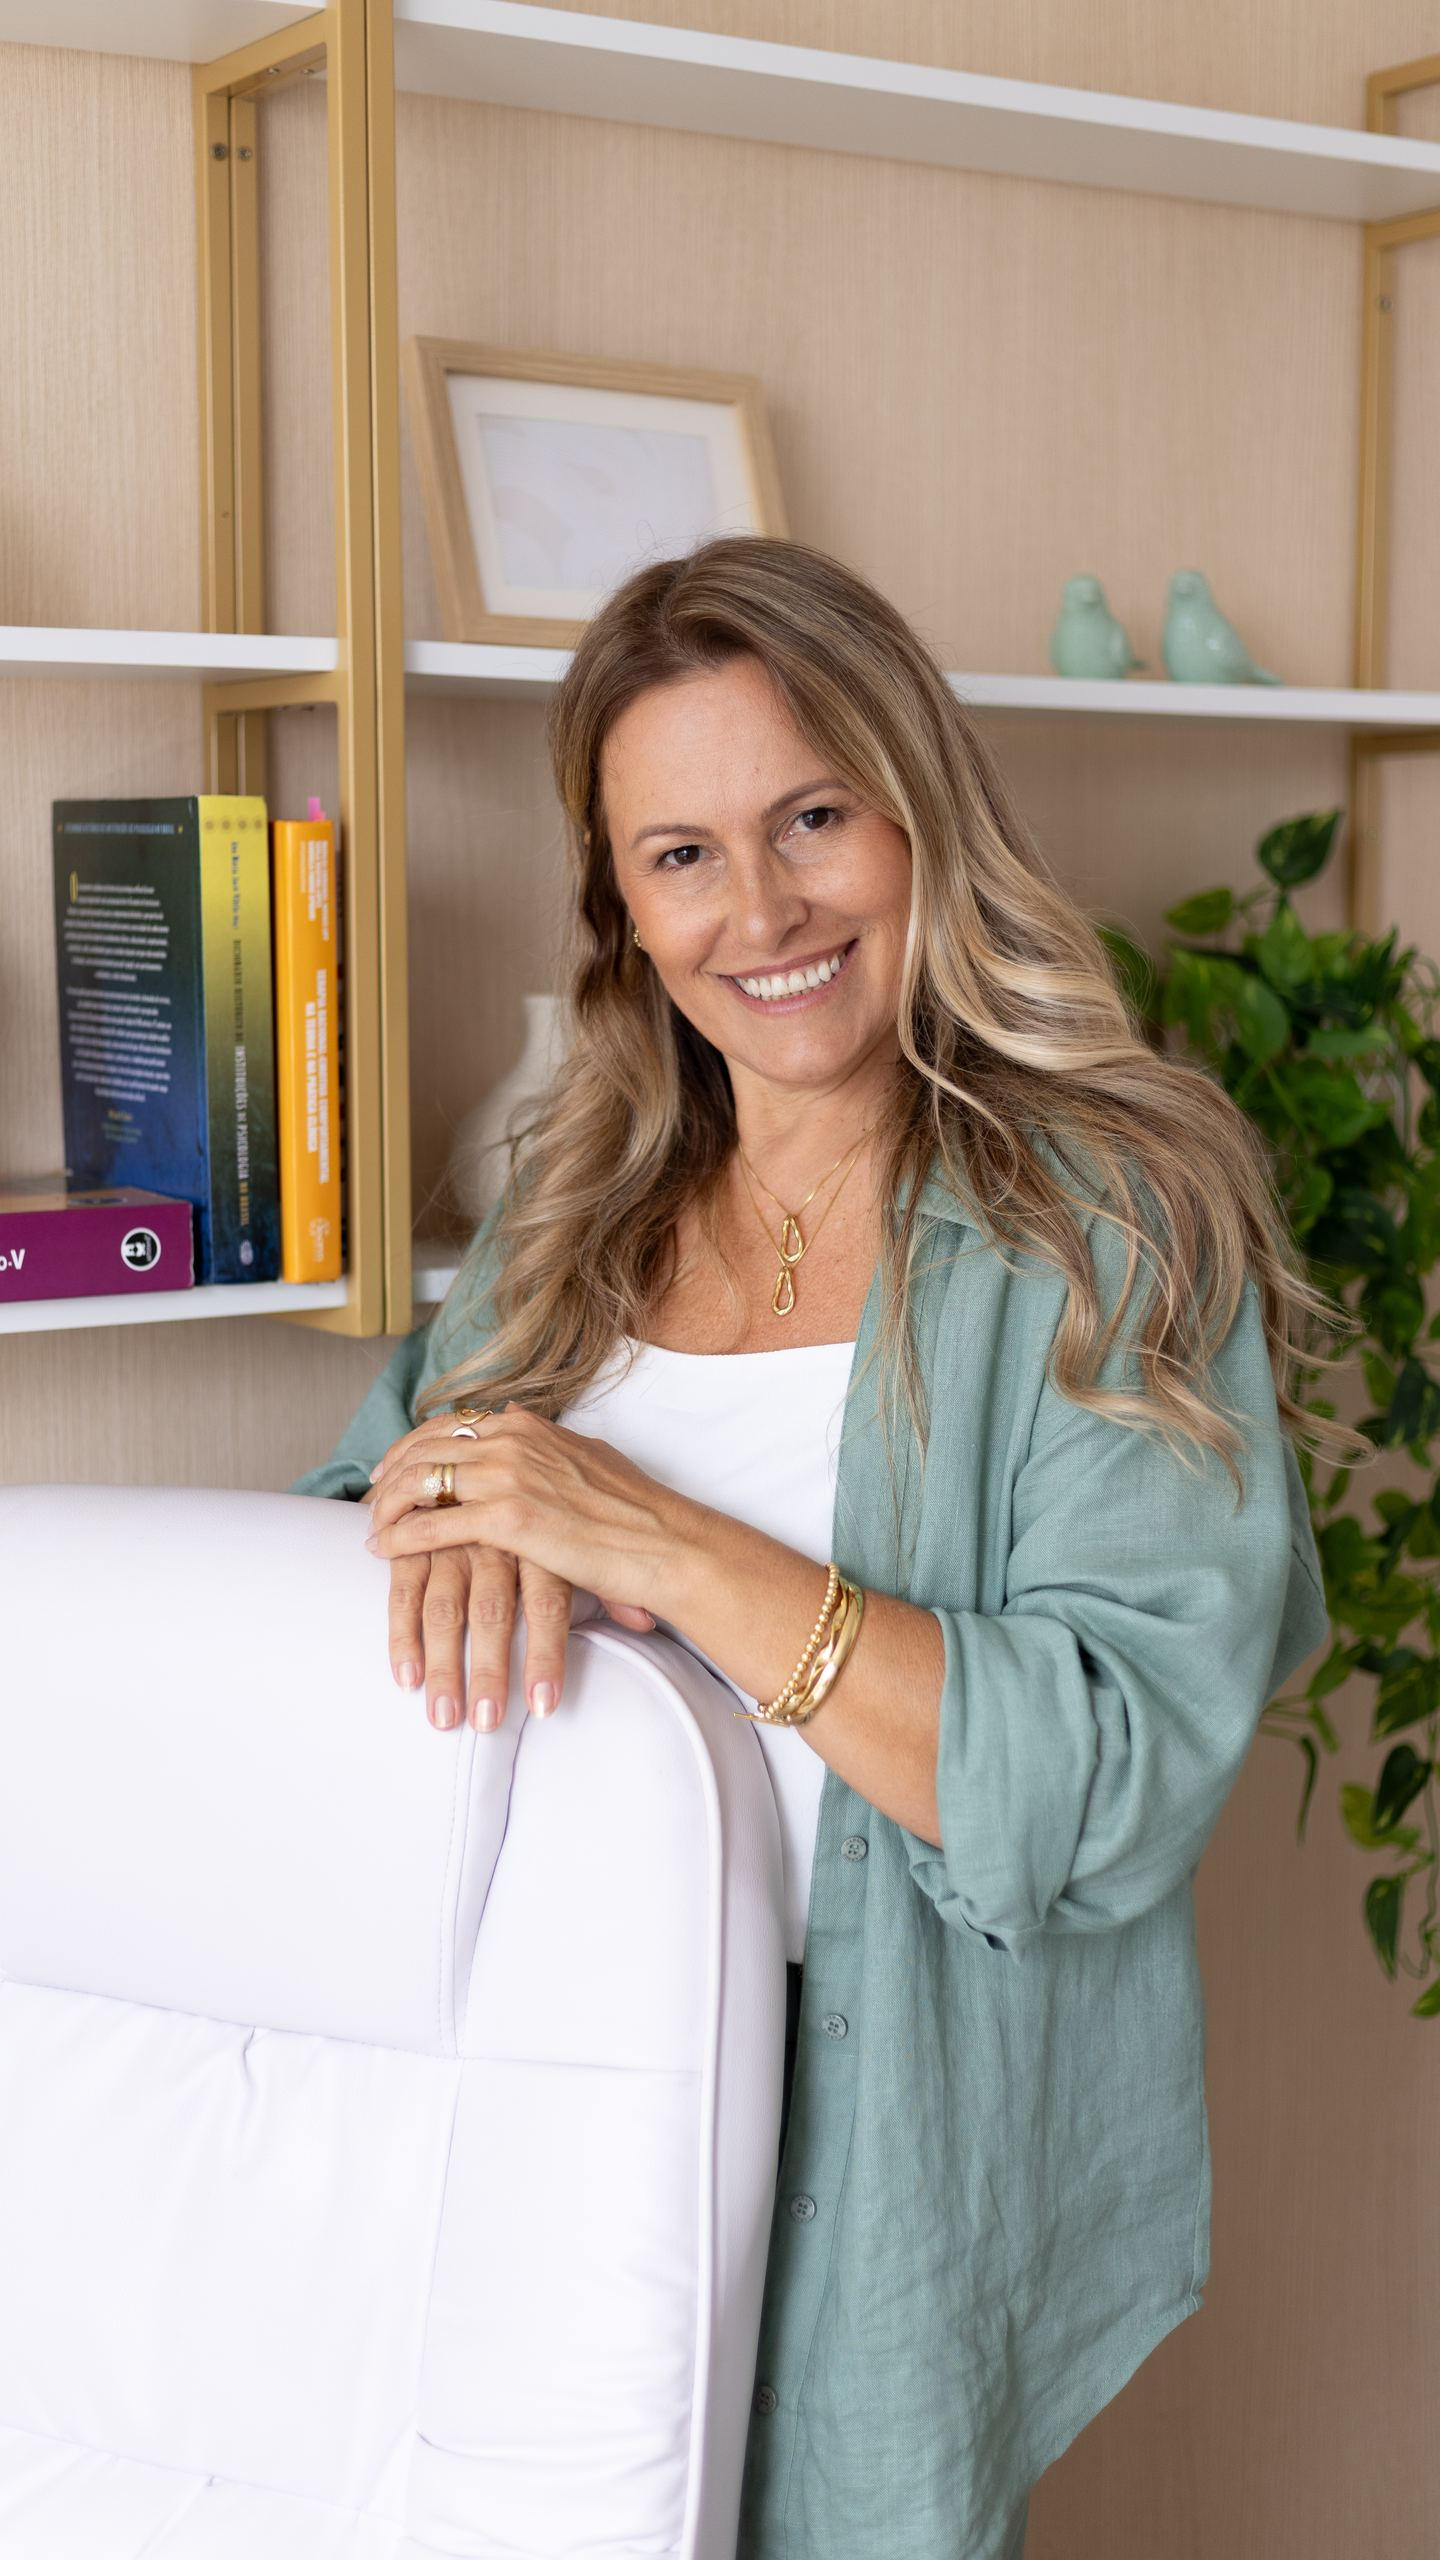
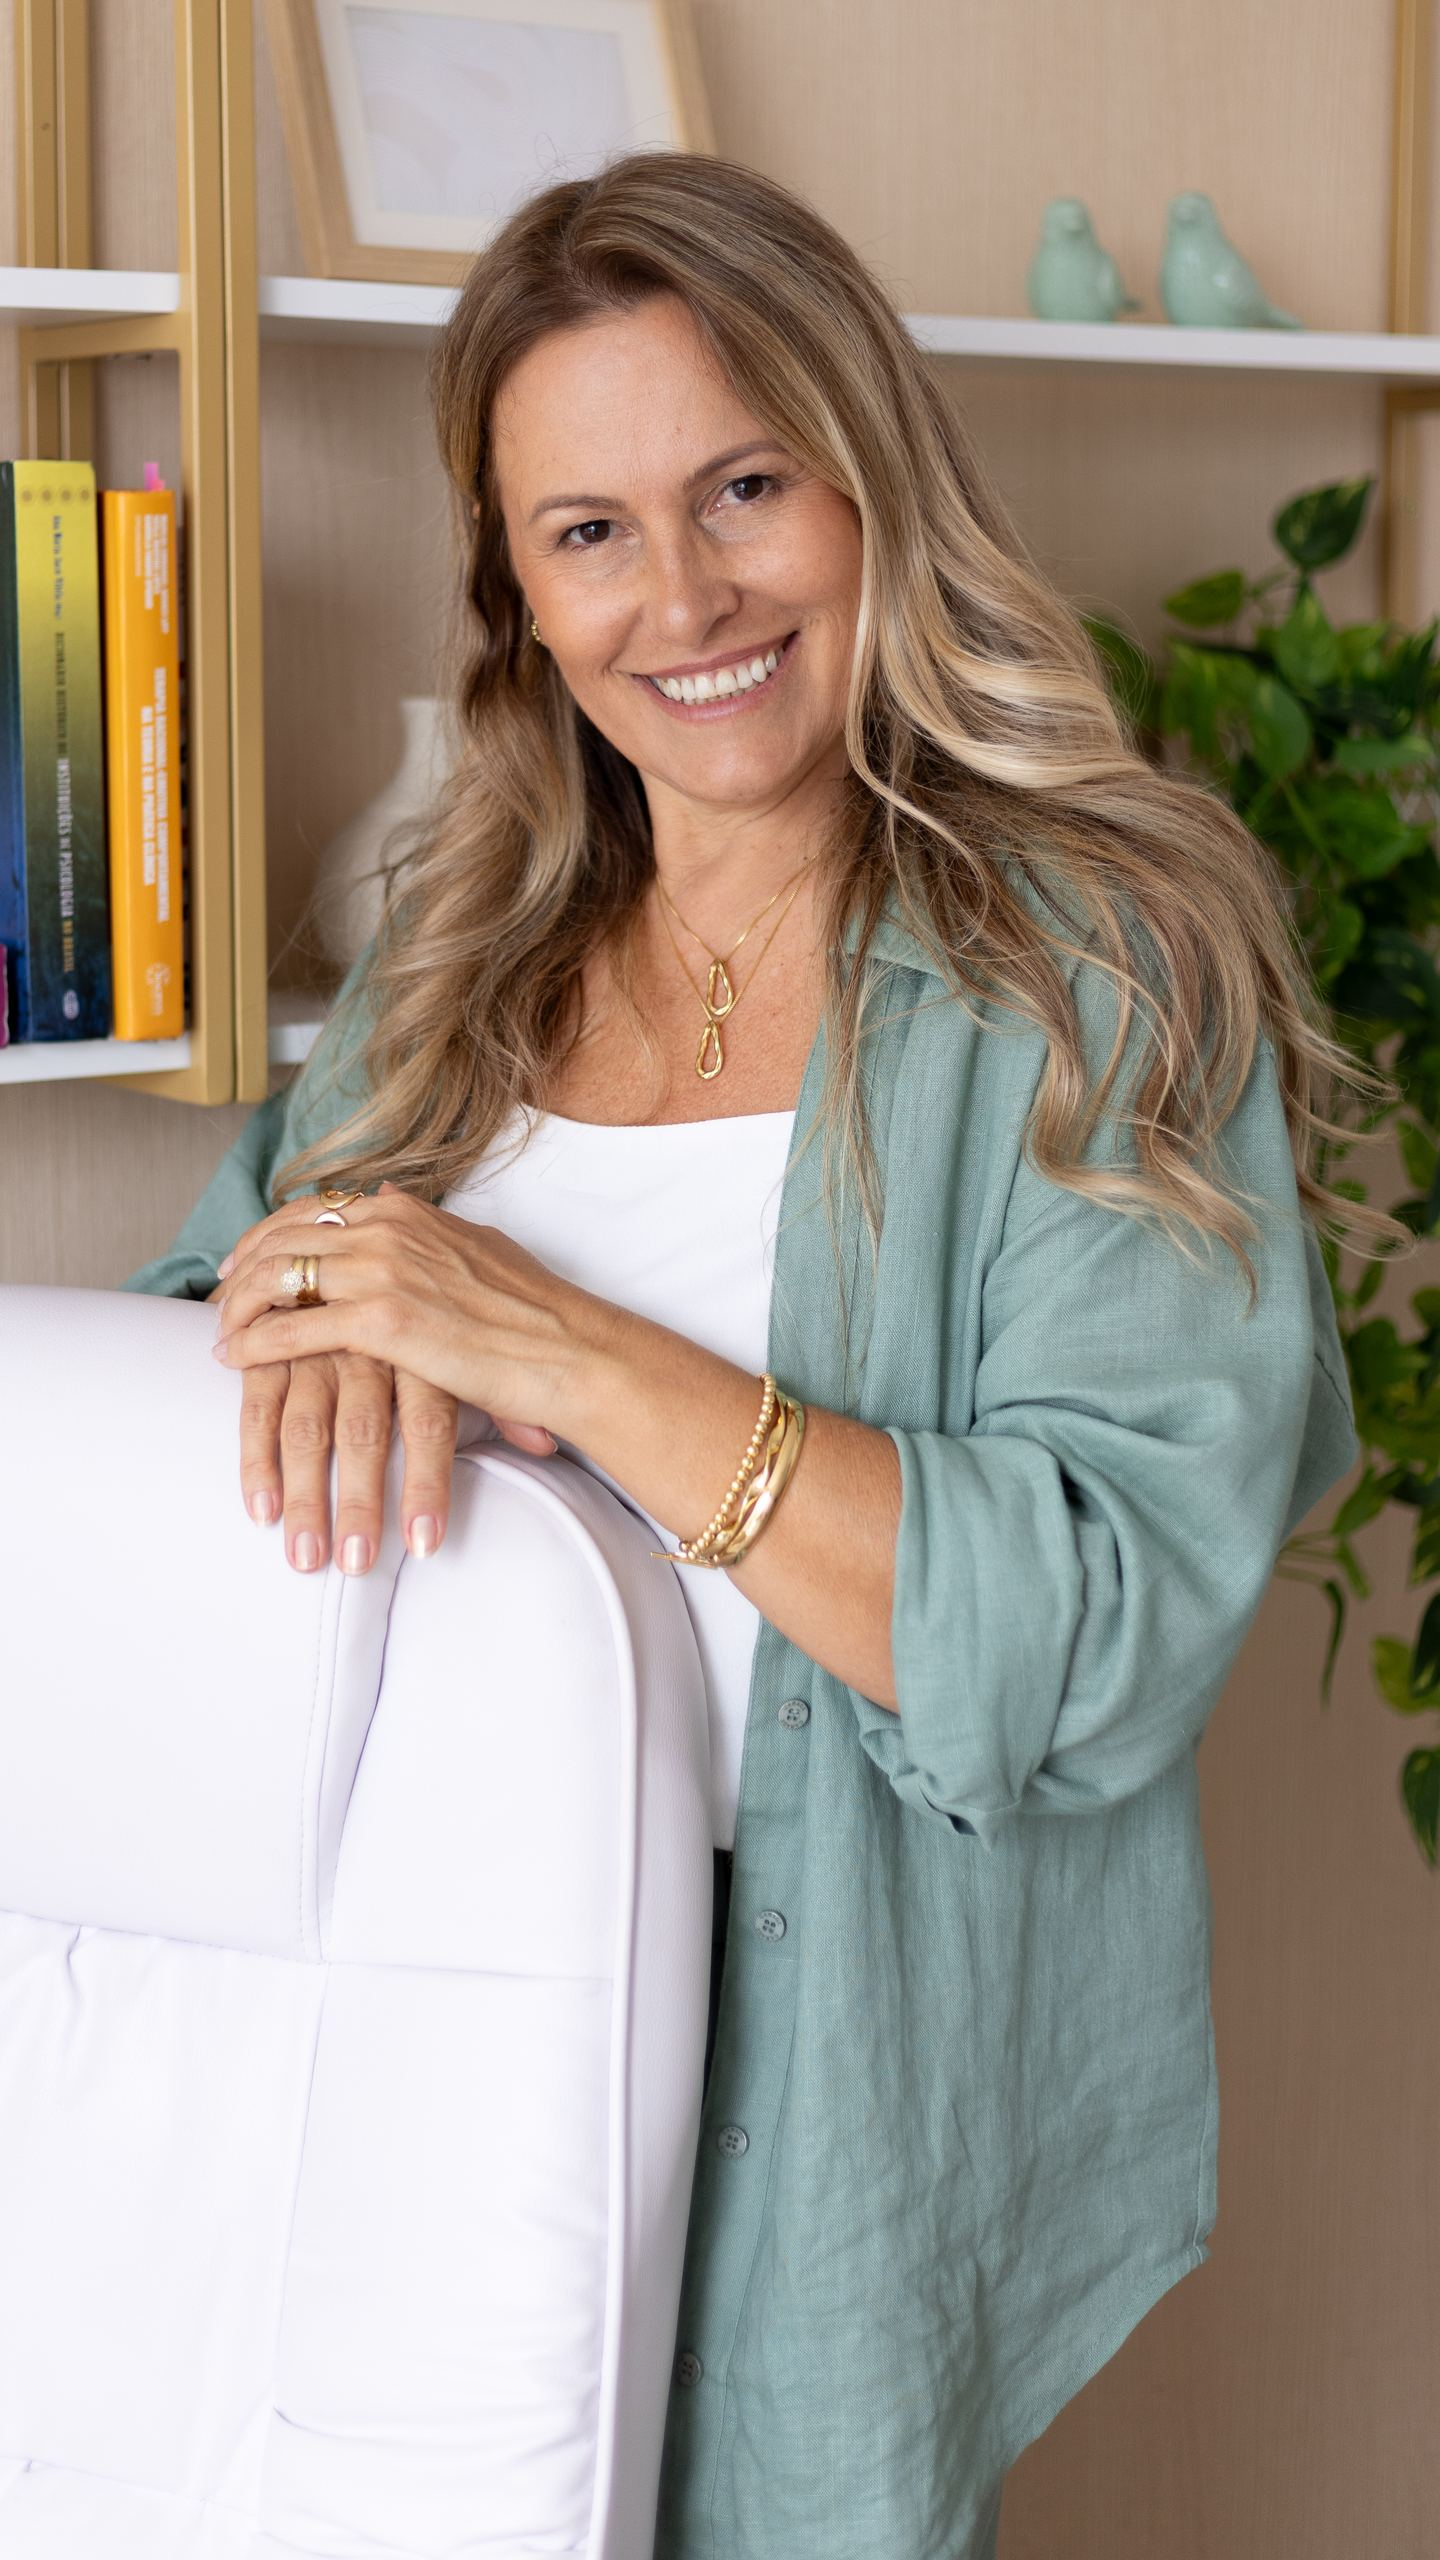
Hero: rosto da Cris livre de texto em qualquer celular
Novo recorte da foto com o rosto mais alto, início do texto e escurecimento
amarrados à altura da foto (vw) em vez da altura da tela, e hero compacto
em telas baixas para o botão principal caber na primeira tela.

diff --git a/burnout/index.html b/burnout/index.html
@@ -34,9 +34,10 @@
 .hero{position:relative;isolation:isolate;min-height:100svh;display:flex;align-items:flex-end;background:var(--c-dark);color:var(--c-on-dark)}
 .hero__media{position:absolute;inset:0 0 auto 0;height:min(100%,177.78vw);z-index:-2}
 .hero__media img{width:100%;height:100%;object-fit:cover;object-position:50% 0;-webkit-mask-image:linear-gradient(180deg,#000 72%,transparent);mask-image:linear-gradient(180deg,#000 72%,transparent)}
-/* Gradiente do design system com os pontos ajustados: no mobile o texto começa em 33% da altura, não em 64% */
-.hero::before{content:"";position:absolute;inset:0;z-index:-1;background:linear-gradient(180deg,rgba(20,19,16,.40) 0%,rgba(20,19,16,.10) 22%,rgba(20,19,16,.80) 34%,rgba(20,19,16,.94) 60%)}
-.hero__content{width:100%;padding-top:34svh;padding-bottom:var(--s-6)}
+/* Mobile: o texto começa logo abaixo do queixo (31% da altura da foto). Medidas em vw porque a foto acompanha a largura da tela.
+   O escurecimento fica na própria foto, com os pontos amarrados ao rosto, para valer em qualquer aparelho. */
+.hero__media::after{content:"";position:absolute;inset:0;background:linear-gradient(180deg,rgba(20,19,16,.40) 0%,rgba(20,19,16,.08) 14%,rgba(20,19,16,.12) 28%,rgba(20,19,16,.82) 33.5%,rgba(20,19,16,.94) 58%)}
+.hero__content{width:100%;padding-top:64vw;padding-bottom:var(--s-6)}
 .hero .overline{color:var(--c-on-dark-2)}
 .hero .overline::before{background:var(--c-accent-dark)}
 .hero h1{color:var(--c-on-dark)}
@@ -44,14 +45,23 @@
 .hero__punch{font-weight:600}
 .hero__actions{display:grid;gap:var(--s-3);margin:var(--s-5) 0}
 .hero :focus-visible{outline-color:var(--c-accent-dark)}
+/* Telas baixas (Safari com barras, celulares menores): hero mais compacto para o botão principal caber na primeira tela */
+@media (max-width:767px) and (max-height:760px){
+.hero__content{padding-top:60vw}
+.hero h1{font-size:1.75rem;margin-bottom:var(--s-3)}
+.hero .overline{margin-bottom:var(--s-3)}
+.hero p{margin-bottom:var(--s-3)}
+.hero__actions{margin:var(--s-4) 0;gap:var(--s-2)}
+}
 .seals{display:flex;flex-wrap:wrap;gap:var(--s-1) 0;list-style:none;padding:0;margin:0 0 0 -1.25em;clip-path:inset(0 0 0 1.25em);font-size:var(--fs-caption);color:var(--c-ink-3)}
 .seals li::before{content:"\00B7";display:inline-block;width:1.25em;text-align:center;color:var(--c-line-strong)}
 .hero .seals{color:var(--c-on-dark-2)}
 @media (min-width:900px){
 .hero{min-height:min(100vh,52rem);align-items:center}
 .hero__media{inset:0 0 0 auto;width:46%;height:100%}
-.hero__media img{object-position:50% 20%;-webkit-mask-image:none;mask-image:none}
-.hero::before{background:linear-gradient(90deg,var(--c-dark) 54%,rgba(35,32,27,0) 64%)}
+.hero__media img{object-position:50% 0;-webkit-mask-image:none;mask-image:none}
+.hero::before{content:"";position:absolute;inset:0;z-index:-1;background:linear-gradient(90deg,var(--c-dark) 54%,rgba(35,32,27,0) 64%)}
+.hero__media::after{display:none}
 .hero__content{padding-block:var(--s-9)}
 .hero__content>*{max-width:31rem}
 .hero__actions{display:flex;flex-wrap:wrap;max-width:none}

diff --git a/index.html b/index.html
@@ -34,9 +34,10 @@
 .hero{position:relative;isolation:isolate;min-height:100svh;display:flex;align-items:flex-end;background:var(--c-dark);color:var(--c-on-dark)}
 .hero__media{position:absolute;inset:0 0 auto 0;height:min(100%,177.78vw);z-index:-2}
 .hero__media img{width:100%;height:100%;object-fit:cover;object-position:50% 0;-webkit-mask-image:linear-gradient(180deg,#000 72%,transparent);mask-image:linear-gradient(180deg,#000 72%,transparent)}
-/* Gradiente do design system com os pontos ajustados: no mobile o texto começa em 33% da altura, não em 64% */
-.hero::before{content:"";position:absolute;inset:0;z-index:-1;background:linear-gradient(180deg,rgba(20,19,16,.40) 0%,rgba(20,19,16,.10) 22%,rgba(20,19,16,.80) 34%,rgba(20,19,16,.94) 60%)}
-.hero__content{width:100%;padding-top:34svh;padding-bottom:var(--s-6)}
+/* Mobile: o texto começa logo abaixo do queixo (31% da altura da foto). Medidas em vw porque a foto acompanha a largura da tela.
+   O escurecimento fica na própria foto, com os pontos amarrados ao rosto, para valer em qualquer aparelho. */
+.hero__media::after{content:"";position:absolute;inset:0;background:linear-gradient(180deg,rgba(20,19,16,.40) 0%,rgba(20,19,16,.08) 14%,rgba(20,19,16,.12) 28%,rgba(20,19,16,.82) 33.5%,rgba(20,19,16,.94) 58%)}
+.hero__content{width:100%;padding-top:64vw;padding-bottom:var(--s-6)}
 .hero .overline{color:var(--c-on-dark-2)}
 .hero .overline::before{background:var(--c-accent-dark)}
 .hero h1{color:var(--c-on-dark)}
@@ -44,14 +45,23 @@
 .hero__punch{font-weight:600}
 .hero__actions{display:grid;gap:var(--s-3);margin:var(--s-5) 0}
 .hero :focus-visible{outline-color:var(--c-accent-dark)}
+/* Telas baixas (Safari com barras, celulares menores): hero mais compacto para o botão principal caber na primeira tela */
+@media (max-width:767px) and (max-height:760px){
+.hero__content{padding-top:60vw}
+.hero h1{font-size:1.75rem;margin-bottom:var(--s-3)}
+.hero .overline{margin-bottom:var(--s-3)}
+.hero p{margin-bottom:var(--s-3)}
+.hero__actions{margin:var(--s-4) 0;gap:var(--s-2)}
+}
 .seals{display:flex;flex-wrap:wrap;gap:var(--s-1) 0;list-style:none;padding:0;margin:0 0 0 -1.25em;clip-path:inset(0 0 0 1.25em);font-size:var(--fs-caption);color:var(--c-ink-3)}
 .seals li::before{content:"\00B7";display:inline-block;width:1.25em;text-align:center;color:var(--c-line-strong)}
 .hero .seals{color:var(--c-on-dark-2)}
 @media (min-width:900px){
 .hero{min-height:min(100vh,52rem);align-items:center}
 .hero__media{inset:0 0 0 auto;width:46%;height:100%}
-.hero__media img{object-position:50% 20%;-webkit-mask-image:none;mask-image:none}
-.hero::before{background:linear-gradient(90deg,var(--c-dark) 54%,rgba(35,32,27,0) 64%)}
+.hero__media img{object-position:50% 0;-webkit-mask-image:none;mask-image:none}
+.hero::before{content:"";position:absolute;inset:0;z-index:-1;background:linear-gradient(90deg,var(--c-dark) 54%,rgba(35,32,27,0) 64%)}
+.hero__media::after{display:none}
 .hero__content{padding-block:var(--s-9)}
 .hero__content>*{max-width:31rem}
 .hero__actions{display:flex;flex-wrap:wrap;max-width:none}
